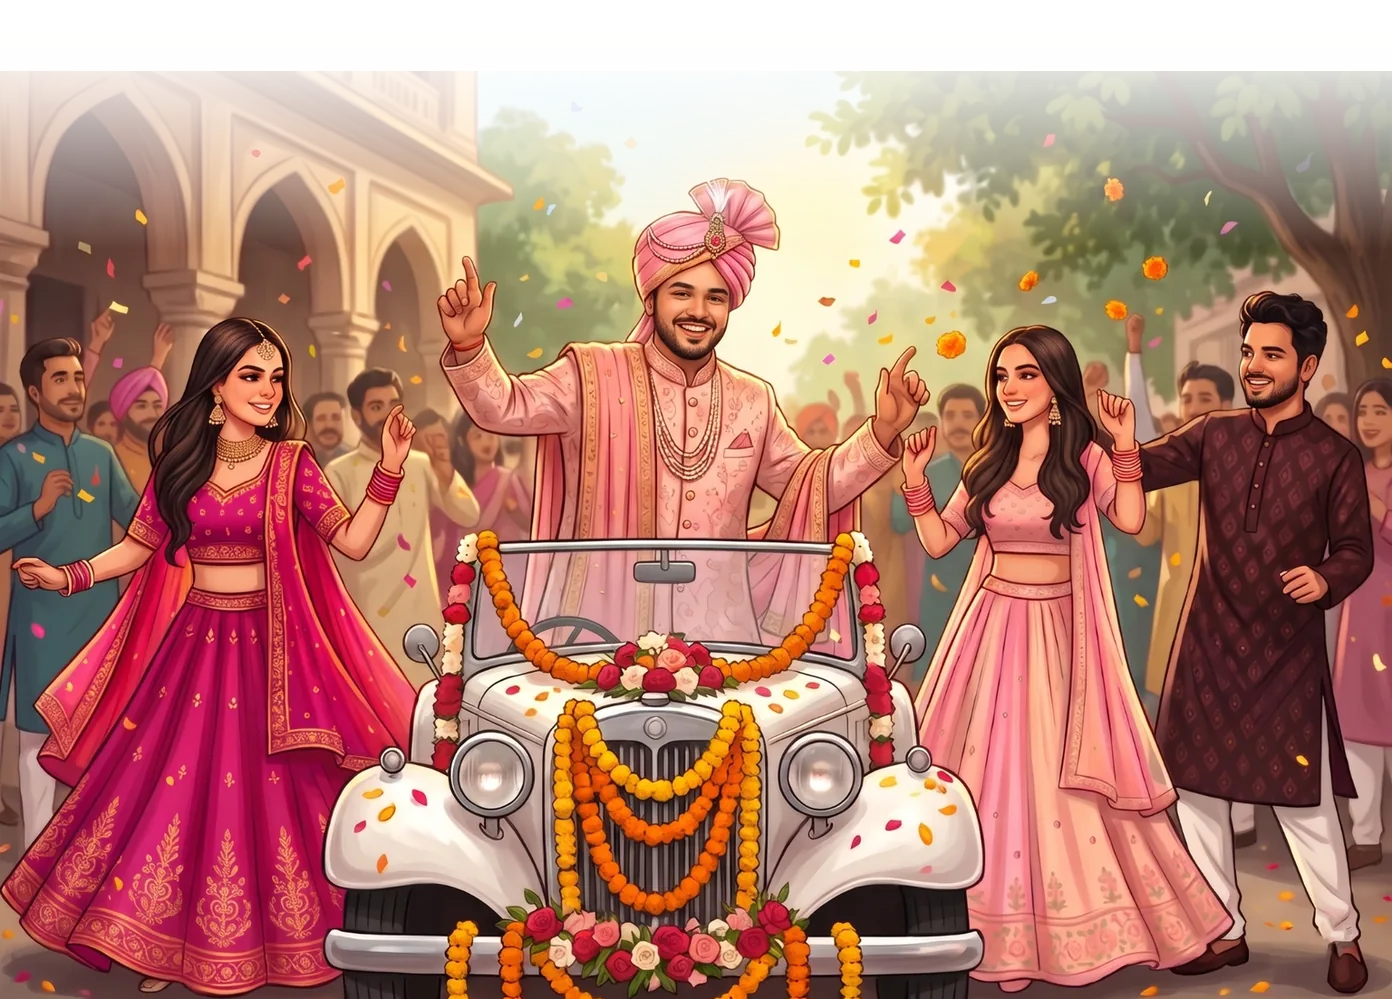
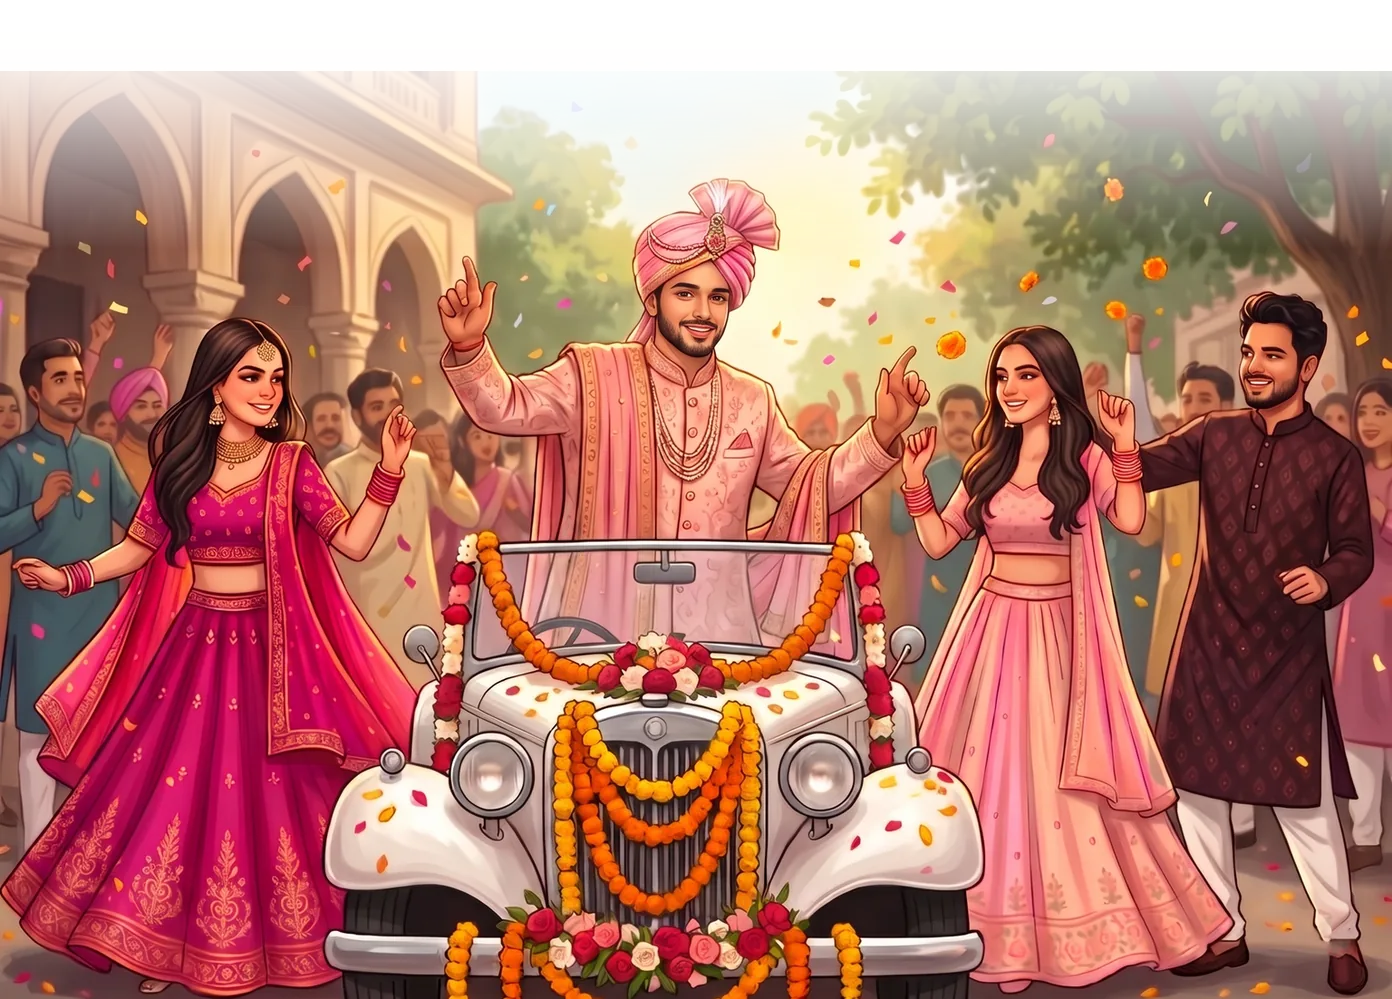
Same slim groom as Reception in Sufi Night and Baraat
Gemini swapped the groom using the Reception picture as reference. The star mark
is now found by its shape (tools/sparkle-template.png), so it is removed even
where it overlaps white clothing.

diff --git a/index.html b/index.html
@@ -192,7 +192,7 @@
     <p class="when" data-reveal aria-label="12 December, Saturday, 8:00 pm onwards"><span class="when__seal" aria-hidden="true"><b>12</b><small>Dec</small></span><span class="when__info" aria-hidden="true"><em>Saturday</em><strong>8:00 pm</strong><small>onwards</small></span></p>
     <a class="btn" href="calendar/sufi-night.ics" data-reveal>Add to calendar</a>
   </div>
-  <img class="page__bottom" data-strip="bottom" src="assets/art/sufi-bottom.webp?v=6" width="928" height="932" alt="Illustration of the couple in a red lehenga and dark sherwani" loading="lazy" decoding="async">
+  <img class="page__bottom" data-strip="bottom" src="assets/art/sufi-bottom.webp?v=7" width="928" height="932" alt="Illustration of the couple in a red lehenga and dark sherwani" loading="lazy" decoding="async">
 </section>
 
 <!-- The sky keeps time: a new morning -->
@@ -209,7 +209,7 @@
     <p class="when" data-reveal aria-label="13 December, Sunday, 12 noon onwards"><span class="when__seal" aria-hidden="true"><b>13</b><small>Dec</small></span><span class="when__info" aria-hidden="true"><em>Sunday</em><strong>12:00 noon</strong><small>onwards</small></span></p>
     <a class="btn" href="calendar/wedding.ics" data-reveal>Add to calendar</a>
   </div>
-  <img class="page__bottom" data-strip="bottom" src="assets/art/baraat-bottom.webp?v=6" width="928" height="666" alt="Illustration of the baraat dancing around a flower-decked vintage car" loading="lazy" decoding="async">
+  <img class="page__bottom" data-strip="bottom" src="assets/art/baraat-bottom.webp?v=7" width="928" height="666" alt="Illustration of the baraat dancing around a flower-decked vintage car" loading="lazy" decoding="async">
 </section>
 
 <!-- The sky keeps time: night falls again -->

diff --git a/tools/remove_sparkle.py b/tools/remove_sparkle.py
@@ -41,6 +41,41 @@ def star_mask(a, box):
     return full
 
 
+TEMPLATE = Image.open(__import__("pathlib").Path(__file__).with_name("sparkle-template.png")).convert("L")
+
+
+def find_star(a, box):
+    """Slide the known star shape over the corner at a few sizes; the star is where the inside of the
+    shape is brightest compared with a ring just outside it. Works even where the star overlaps
+    something white, because it is the shape that is matched, not just the brightness."""
+    x0, y0, x1, y1 = box
+    c = a[y0:y1, x0:x1].astype(np.float32)
+    lum = c.mean(axis=2)
+    bg = np.asarray(Image.fromarray(lum.astype(np.uint8)).filter(ImageFilter.GaussianBlur(20))).astype(np.float32)
+    sat = (c.max(axis=2) - c.min(axis=2)) / (c.max(axis=2) + 1)
+    D = (lum - bg) - 60 * sat   # pale and neutral
+    best = None
+    for sc in np.arange(.55, 1.21, .05):
+        tw, th = max(8, round(TEMPLATE.width * sc)), max(8, round(TEMPLATE.height * sc))
+        t = np.asarray(TEMPLATE.resize((tw, th), Image.BILINEAR)) > 127
+        r = np.asarray(Image.fromarray(t.astype(np.uint8) * 255).filter(ImageFilter.MaxFilter(7))) > 0
+        ring = r & ~(np.asarray(Image.fromarray(t.astype(np.uint8) * 255).filter(ImageFilter.MaxFilter(3))) > 0)
+        h, w = D.shape
+        for yy in range(0, h - th, 2):
+            for xx in range(0, w - tw, 2):
+                win = D[yy:yy + th, xx:xx + tw]
+                score = win[t].mean() - win[ring].mean()
+                if best is None or score > best[0]:
+                    best = (score, sc, yy, xx, t)
+    score, sc, yy, xx, t = best
+    if score < 18:
+        return None
+    m = np.zeros(a.shape[:2], bool)
+    m[y0 + yy:y0 + yy + t.shape[0], x0 + xx:x0 + xx + t.shape[1]] = t
+    return m
+
+
+
 def grow(mask, px):
     return np.asarray(Image.fromarray(mask.astype(np.uint8) * 255).filter(ImageFilter.MaxFilter(px * 2 + 1))) > 0
 
@@ -50,11 +85,11 @@ def clean(src, dst):
     a = np.asarray(im).astype(np.float32)
     H, W = a.shape[:2]
     s = W / 2000
-    box = (int(W - 190 * s), int(H - 190 * s), int(W - 10 * s), int(H - 10 * s))
-    m = star_mask(a.astype(np.uint8), box)
-    if m is None or m.sum() < 400 * s * s:
+    box = (int(W - 220 * s), int(H - 220 * s), W, H)
+    m = find_star(a, box)
+    if m is None:
         print(f"  {src}: no sparkle found"); im.save(dst); return
-    hole = grow(m, max(3, int(4 * s)))
+    hole = grow(m, max(4, int(5 * s)))
     # work in a window around the star
     ys, xs = np.nonzero(hole)
     M = int(110 * s)
